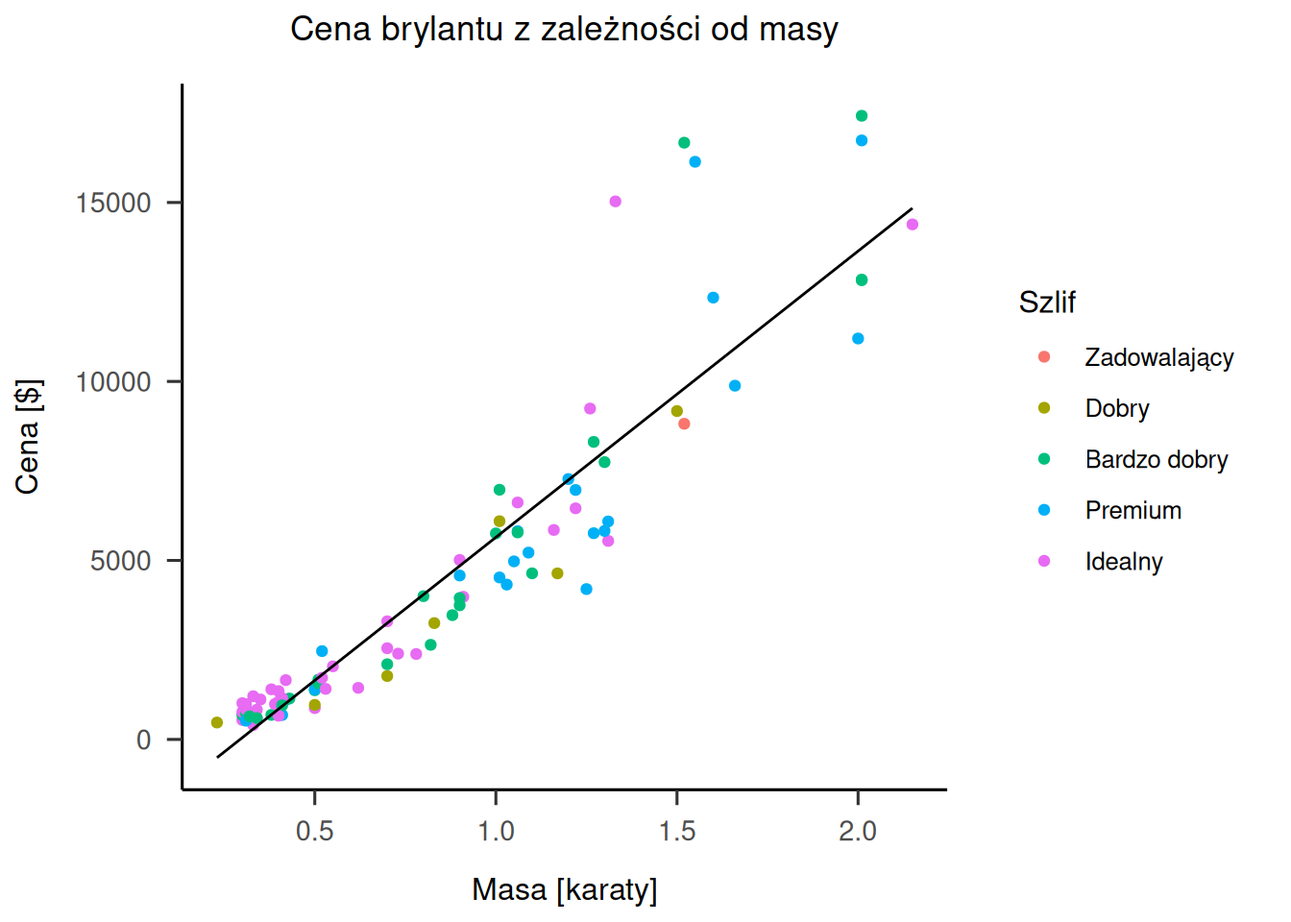
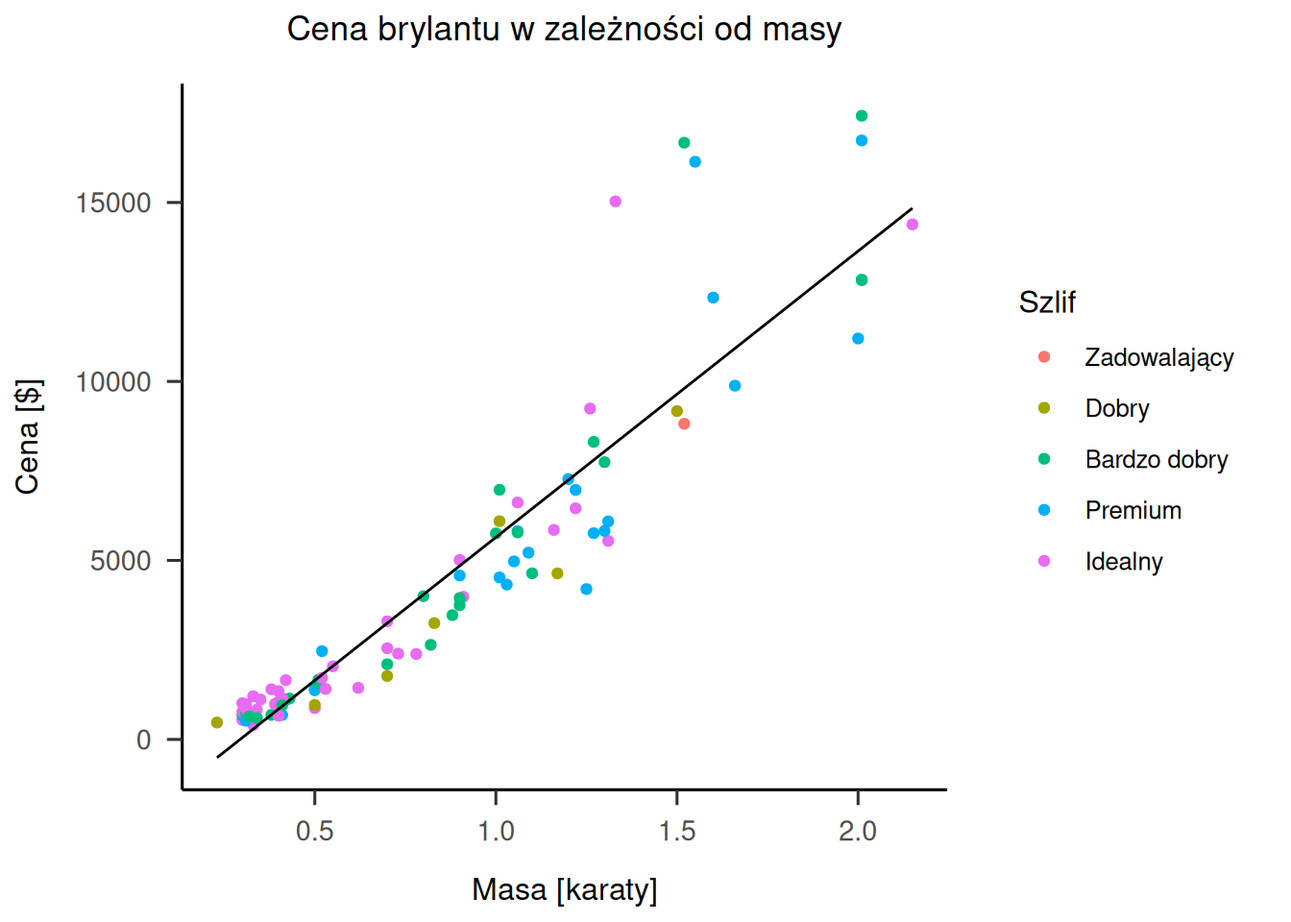
Built site for gh-pages

Changed region(s): [[0.2188, 0.0, 0.6562, 0.0625]]

diff --git a/statystyka/podstawy_R.html b/statystyka/podstawy_R.html
@@ -466,7 +466,7 @@ div.csl-indent {
 <section id="sec-projects" class="level2" data-number="3.6">
 <h2 data-number="3.6" class="anchored" data-anchor-id="sec-projects"><span class="header-section-number">3.6</span> Projekty</h2>
 <p>Zazwyczaj projekt badawczy składa się z wielu plików. Nie jest to tylko kod R, ale też chociażby pliki z danymi, instrukcje do metod badawczych itd. Zazwyczaj trzymamy to wszystko w jednym folderze. O ile utrzymujemy jakikolwiek porządek w plikach. Możemy też mieć całe studia luzem na pulpicie, nie oceniam. RStudio pomaga nam w zarządzaniu takimi grupami plików poprzez projekty. Projekty w RStudio robią kilka rzeczy, m.in. pozwalają ustawić niestandardowe opcje (np. zmienić język słownika na angielski tylko dla tego jednego projektu), zapamiętać otwarte okna i ich układ, ale przede wszystkim pomagają nam lokalizować pliki znajdujące się w tym samym folderze<a href="#fn9" class="footnote-ref" id="fnref9" role="doc-noteref"><sup>9</sup></a>. Zawsze, kiedy planujemy zachować jakiś zbiór powiązanych plików na dłużej, warto jest wytworzyć projekt.</p>
-<p>Projekty tworzymy i otwieramy przez guzik w prawym górnym rogu. Rozwijane menu pozwana nam stworzyć nowy projekt, a wyskakujące okienko pyta, czy wytworzyć go w już istniejącym folderze, stworzyć nowy folder, czy może pobrać repozytorium Git. Jeśli wybraliśmy nowy folder, mamy kilka typów projektów do wyboru, ale w większości przypadków wybieramy po prostu <code>New Project</code>. Okienko pozwala nam nadać projektowi nazwę, wybrać jego lokalizację, a także wytworzyć puste repozytorium Git<a href="#fn10" class="footnote-ref" id="fnref10" role="doc-noteref"><sup>10</sup></a>. RStudio wytworzy nam w ten sposób plik .Rproj organizujący nasz projekt.</p>
+<p>Projekty tworzymy i otwieramy przez guzik w prawym górnym rogu. Rozwijane menu pozwala nam stworzyć nowy projekt, a wyskakujące okienko pyta, czy wytworzyć go w już istniejącym folderze, stworzyć nowy folder, czy może pobrać repozytorium Git. Jeśli wybraliśmy nowy folder, mamy kilka typów projektów do wyboru, ale w większości przypadków wybieramy po prostu <code>New Project</code>. Okienko pozwala nam nadać projektowi nazwę, wybrać jego lokalizację, a także wytworzyć puste repozytorium Git<a href="#fn10" class="footnote-ref" id="fnref10" role="doc-noteref"><sup>10</sup></a>. RStudio wytworzy nam w ten sposób plik .Rproj organizujący nasz projekt.</p>
 </section>
 <section id="sec-libs" class="level2" data-number="3.7">
 <h2 data-number="3.7" class="anchored" data-anchor-id="sec-libs"><span class="header-section-number">3.7</span> Pakiety</h2>
@@ -501,7 +501,7 @@ div.csl-indent {
 <h1 data-number="4"><span class="header-section-number">4</span> Ładowanie danych z <code>readr</code></h1>
 <p>Jeśli chcemy cokolwiek liczyć, musimy mieć na czym liczyć. R ma wiele sposobów ładowania danych, które w każdym podręczniku zajmują cały rozdział. R poradzi sobie z prawie każdym formatem danych, a także potrafi ładować je bezpośrednio z serwerów (dla przykładu pakiet <code>googlesheets4</code> pozwala ładować pliki z Google Sheets bez pobierania ich na dysk albo <code>QualtRics</code> ułatwiający importowanie plików z danymi ankietowymi z Qualtrics).</p>
 <p>Wszystkie bazy, których używam w tym tekście, są dostępne w repozytorium na GitHubie. Można wejść w <a href="https://github.com/jakub-jedrusiak/jakub-jedrusiak.github.io/tree/main/statystyka/dane/podstawy-R">ten link</a>, wybrać pożądany plik i albo pobrać go na własny dysk, albo zamiast ścieżki do pliku użyć linku w cudzysłowie. By uzyskać właściwy link, należy kliknąć <code>raw</code> tuż nad treścią pliku. Takie linki można wklejać w komendy czytające dane zamiast ścieżek. Przykład linku, jak i tego, jak używać ich z funkcjami typu <code>read_csv</code> podaję w podrozdziale <a href="#sec-summarise">5.7</a> o grupowaniu.</p>
-<p>Podstawowe pakiety do ładowania danych do <code>readr</code> i <code>readxl</code> dla plików Excela. Na początek nie trzeba znać skłądni funkcji ładujących dane, bo RStudio dysponuje przyjemnym graficznym narzędziem do ładowania danych. Jeśli w prawym dolnym oknie, w zakładce Files, klikniemy na plik zawierający dane, dostaniemy do dyspozycji opcję Import Dataset… Po jej wybraniu otworzy nam się okno z podglądem danych i kilkoma opcjami do dostosowania, m.in. czy jakichś wierszy nie pominąć albo z którego arkusza pobrać dane. W plikach .csv czasem musimy też wybrać rodzaj separatora i znaku dziesiętnego (opcja Locale). W polskich plikach z danymi separatorem jest zazwyczaj średnik, a znakiem dziesiętnym przecinek (125 421,55), podczas gdy w angielskich danych będą to odpowiednio przecinek i kropka (125,421.55). Jeśli nie ustawimy znaku dziesiętnego, R może potraktować liczby z przecinkiem jako tekst. Poza tym możemy kliknąć w każdy nagłówek kolumny i wybrać typ danych, ale to niebezpieczna opcja, lepiej tego nie robić. Dane powinny być czyste, tj. kolumny liczbowe powinny zawierać same liczby. Jeśli dane nie są czyste (a zazwyczaj nie są), możemy je wyczyścić potem.</p>
+<p>Podstawowe pakiety do ładowania danych do <code>readr</code> i <code>readxl</code> dla plików Excela. Na początek nie trzeba znać składni funkcji ładujących dane, bo RStudio dysponuje przyjemnym graficznym narzędziem do ładowania danych. Jeśli w prawym dolnym oknie, w zakładce Files, klikniemy na plik zawierający dane, dostaniemy do dyspozycji opcję Import Dataset… Po jej wybraniu otworzy nam się okno z podglądem danych i kilkoma opcjami do dostosowania, m.in. czy jakichś wierszy nie pominąć albo z którego arkusza pobrać dane. W plikach .csv czasem musimy też wybrać rodzaj separatora i znaku dziesiętnego (opcja Locale). W polskich plikach z danymi separatorem jest zazwyczaj średnik, a znakiem dziesiętnym przecinek (125 421,55), podczas gdy w angielskich danych będą to odpowiednio przecinek i kropka (125,421.55). Jeśli nie ustawimy znaku dziesiętnego, R może potraktować liczby z przecinkiem jako tekst. Poza tym możemy kliknąć w każdy nagłówek kolumny i wybrać typ danych, ale to niebezpieczna opcja, lepiej tego nie robić. Dane powinny być czyste, tj. kolumny liczbowe powinny zawierać same liczby. Jeśli dane nie są czyste (a zazwyczaj nie są), możemy je wyczyścić potem.</p>
 <p>Możemy kliknąć Import, by dopełnić dzieła, ale jeśli tworzymy skrypt, będzie nas interesowała komenda, jaką RStudio dla nas przygotowało w czarnym okienku w prawym dolnym rogu. W pierwszej linijce RStudio proponuje załadowanie odpowiedniego pakietu. Warto to wpisać na początku skryptu, w miejscu, gdzie załadowaliśmy <code>tidyverse</code>. Jeśli proponowanym pakietem jest <code>readr</code>, nie musimy ładować go oddzielnie, bo ładując pakiet <code>tidyverse</code> załadowaliśmy od razu <code>readr</code>. Druga linijka do właściwe ładowanie danych. Widzimy znaną nam już składnię <code>nazwa &lt;-</code>. Nasze dane potrzebują jakiejś nazwy, za pomocą której będziemy się do niej odnosić. Może być to <code>df</code>, <code>dane</code>, <code>warunek_kontrolny</code> czy cokolwiek innego. Za strzałką mamy funkcję odczytującą dane. Najpewniej będzie to <code>read_csv()</code> albo <code>read_excel()</code>. Do tych funkcji wrzucamy jako pierwszy argument lokalizację naszego pliku z danymi w cudzysłowie (‘pojedynczym’ lub “podwójnym”). Ponieważ nam komendę przygotowało RStudio, możemy ją po prostu skopiować i wkleić do naszego skryptu, zmieniając tylko nazwę zmiennej. Co robią poszczególne argumenty, możemy sprawdzić w dokumentacji. Jeśli dane ładuje <code>readr</code>, wykonanie takiej komendy spowoduje ukazanie się informacji zwrotnej – jakie kolumny załadowano i jaki mają typ. Dla przykładu:</p>
 <div class="cell">
 <div class="sourceCode cell-code" id="cb12"><pre class="sourceCode r code-with-copy"><code class="sourceCode r"><span id="cb12-1"><a href="#cb12-1" aria-hidden="true" tabindex="-1"></a>df <span class="ot">&lt;-</span> <span class="fu">read_csv</span>(<span class="st">"dane/podstawy-R/complex_database.csv"</span>)</span></code><button title="Kopiuj do schowka" class="code-copy-button"><i class="bi"></i></button></pre></div>
@@ -557,7 +557,7 @@ div.csl-indent {
 <p>Zarówno tutaj, jak i później, nie będę wchodził w to, <em>dlaczego</em> coś działa jak działa. Większość poradników R opisuje, jak wykonać pewne operacje w podstawowym R, a następnie jak to robi się współcześnie, czyli wykorzystując pakiet <code>tidyverse</code>. O ile znajomość podstawowego R jest niezbędna do wykonywania bardziej skomplikowanych operacji i przydaje się, gdy coś nie działa i trzeba to jakoś naprawić, to tutaj jednak skupię się na tym, jak to się robi rzeczywiście, a współcześnie podstawy to <code>tidyverse</code>.</p>
 <section id="sec-choosing" class="level2" data-number="5.1">
 <h2 data-number="5.1" class="anchored" data-anchor-id="sec-choosing"><span class="header-section-number">5.1</span> Wybieranie kolumn i wierszy</h2>
-<p>Bardzo często będziemy potrzebowali tylko określonych kolumn albo tylko określonych wierszy. Przeglądając nasze dane zauważamy, że składają się w dużej części z niepotrzebnych kolumn, jakie wygenerował dla nas program do ankiet. Kolumny takie jak godziny wypełniania są nam niepotrzebne do analizy. Co więcej nasze dane to fragment bazy danych z badania, w którym mówiliśmy mężczyznom, że są mało męscy i patrzyliśmy, jak to wpłynie na nich homofobię. Badaliśmy więc wyłącznie mężczyzn, a mimo to ankietę próbowało też wypełnić kilka kobiet i osób o innej płci. Ponieważ ankieta nie dopuściła ich nawet do metryczki, widzimy w ich przypadkach wartości <code>NA</code>, co w R oznacza „brak danych”.</p>
+<p>Bardzo często będziemy potrzebowali tylko określonych kolumn albo tylko określonych wierszy. Przeglądając nasze dane zauważamy, że składają się w dużej części z niepotrzebnych kolumn, jakie wygenerował dla nas program do ankiet. Kolumny takie jak godziny wypełniania są nam niepotrzebne do analizy. Co więcej nasze dane to fragment bazy danych z badania, w którym mówiliśmy mężczyznom, że są mało męscy. Potem patrzyliśmy, jak to wpłynie na nich homofobię. Badaliśmy więc wyłącznie mężczyzn, a mimo to ankietę próbowało też wypełnić kilka kobiet i osób o innej płci. Ponieważ ankieta nie dopuściła ich nawet do metryczki, widzimy w ich przypadkach wartości <code>NA</code>, co w R oznacza „brak danych”.</p>
 <section id="sec-filter" class="level3" data-number="5.1.1">
 <h3 data-number="5.1.1" class="anchored" data-anchor-id="sec-filter"><span class="header-section-number">5.1.1</span> Filtrowanie wierszy z <code>dplyr::filter</code></h3>
 <p>Zacznijmy od tego, że w naszej bazie zostawimy tylko mężczyzn. Wszystkie komendy poniżej wpisuję w konsoli, dla testów. Jeśli wpisujemy komendy modyfikujące dane i nie dodamy specjalnej instrukcji zapisującej, to nie zapisujemy zmian, więc możemy bezpiecznie sprawdzić, co się stanie, jak rzeczywiście to zrobimy. Dopiero na koniec podam, jak nasze zmiany rzeczywiście zapisać. Zachęcam do tego, żeby kolejne kroki pisać samodzielnie (może być w skrypcie) i potem wykonywać, żeby widzieć wszystkie pośrednie kroki. Jak więc odfiltrować nie-mężczyzn? Robimy to za pomocą komendy <code>filter()</code><a href="#fn12" class="footnote-ref" id="fnref12" role="doc-noteref"><sup>12</sup></a>. <code>tidyverse</code> opiera się o intuicyjnie brzmiące czasowniki takie jak <code>filter</code>, <code>select</code>, <code>group_by</code>, <code>summarise</code> itd. Komenda <code>filter</code> przyjmuje naszą bazę i jakieś warunki, np. płeć męska. W naszym wypadku będzie to wyglądać tak:</p>
@@ -662,8 +662,8 @@ div.csl-indent {
 </code><button title="Kopiuj do schowka" class="code-copy-button"><i class="bi"></i></button></pre>
 </div>
 </div>
-<p>Jak widzimy, <code>paste</code> wygenerowało nam 10 kolejnych etykiet łącząc <code>"H"</code> i liczby od 1 do 10. Argument <code>sep = "_"</code> mówi, żeby między kolejnymi kawałkami wstawiać podkreślnik. Do <code>paste</code> możemy wrzucić dowolną liczbę znaków do połączenia. Jeśli nie chcemy żadnego separatora, możemy ustawić <code>sep = ""</code>, czyli pusty ciąg znaków w separatorze albo możemy użyć bliźniaczej funkcji <code>paste0</code>, która nie ma separatora. Użycie tej funkcji wewnątrz <code>set_names</code> jest równoważne temu, jakbym napisał te etykietki ręcznie. To jest siła programowania, że dosłowne dane możemy zastępować zmiennymi albo funkcjami, które nam te dane wygenerują. To pozwana nam na przykład zastosować to samo czyszczenie do 100 różnych plików. Wystarczy, że zamiast nazwy danego pliku wszędzie wrzucimy zmienną, a potem będziemy tylko wrzucać do tej zmiennej nazwy kolejnych plików.</p>
-<p>Co ciekawe, zmieniać nazwy możemy też za pomocą funkcji <code>select</code>, ale wyłącznie pojedynczo, nie można wtedy użyć czegoś w stylu <code>9:18</code>. Składnia jest taka sama, jak <code>rename</code>, ale <code>select</code> zmienia też kolejność kolumn i skład wynikowej tabelu, więc trzeba uważać. Jednak do małych tabel, gdzie nie jest problemem wypisać wszystkie kolumny, można spokojnie za jednym zamachem kolumny wybrać i nazwać.</p>
+<p>Jak widzimy, <code>paste</code> wygenerowało nam 10 kolejnych etykiet łącząc <code>"H"</code> i liczby od 1 do 10. Argument <code>sep = "_"</code> mówi, żeby między kolejnymi kawałkami wstawiać podkreślnik. Do <code>paste</code> możemy wrzucić dowolną liczbę znaków do połączenia. Jeśli nie chcemy żadnego separatora, możemy ustawić <code>sep = ""</code>, czyli pusty ciąg znaków w separatorze albo możemy użyć bliźniaczej funkcji <code>paste0</code>, która nie ma separatora. Użycie tej funkcji wewnątrz <code>set_names</code> jest równoważne temu, jakbym napisał te etykietki ręcznie. To jest siła programowania, że dosłowne dane możemy zastępować zmiennymi albo funkcjami, które nam te dane wygenerują. To pozwala nam na przykład zastosować to samo czyszczenie do 100 różnych plików. Wystarczy, że zamiast nazwy danego pliku wszędzie wrzucimy zmienną, a potem będziemy tylko wrzucać do tej zmiennej nazwy kolejnych plików.</p>
+<p>Co ciekawe, zmieniać nazwy możemy też za pomocą funkcji <code>select</code>, ale wyłącznie pojedynczo, nie można wtedy użyć czegoś w stylu <code>9:18</code>. Składnia jest taka sama, jak <code>rename</code>, ale <code>select</code> zmienia też kolejność kolumn i skład wynikowej tabeli, więc trzeba uważać. Jednak do małych tabel, gdzie nie jest problemem wypisać wszystkie kolumny, można spokojnie za jednym zamachem kolumny wybrać i nazwać.</p>
 </section>
 <section id="sec-values" class="level2" data-number="5.3">
 <h2 data-number="5.3" class="anchored" data-anchor-id="sec-values"><span class="header-section-number">5.3</span> Zmiana wartości komórek z <code>dplyr::mutate</code> i <code>readr::parse_number</code></h2>
@@ -1058,11 +1058,12 @@ div.csl-indent {
 </code><button title="Kopiuj do schowka" class="code-copy-button"><i class="bi"></i></button></pre>
 </div>
 </div>
-<p>Po zapisaniu zmiennej <code>df</code>, tracimy naszą starą zmienną. Tym samym, jeśli uruchomilibyśmy nasz kod jeszcze raz, ale już na nowej zmiennej <code>df</code>, wyskoczy nam błąd. W końcu nowa zmienna nie ma tych samych kolumn, co stara zmienna. Co więcej, takiej operacji przypisania nie da się w prosty sposób cofnąć. Jeśli chcemy dostać swoją starą, brudną bazę, musimy ponownie załadować ją z pliku. To prowadzi nas do ważnego wniosku co do pisania skryptów – powinniśmy pisać je tak, żeby dało się z nich odtworzyć wszystko, co robiliśmy od samego początku<a href="#fn24" class="footnote-ref" id="fnref24" role="doc-noteref"><sup>24</sup></a>. Dzięki temu, jeśli chcemy się z czegoś wycofać, zaznaczamy i wykonujemy cały kod przed interesującym nas momentem. Brak skrótu Ctrl+Z jest jedną z ważniejszych różnic między analizą w programach typu SPSS czy Statistica a analizą w językach programowania typu R czy Python. Wbrew pozorom idzie się przyzwyczaić. Ta sama właściwość pozwala na zachowanie przejrzystości w nauce – pokaż mi swój kod, a będę wiedział bardzo dokładnie, jak prowadziłeś(-aś) swoją analizę.</p>
+<p>Po zapisaniu zmiennej <code>df</code>, tracimy naszą starą bazę danych, która była w niej zapisana. To jest tak, jakbyśmy kopiowali plik do folderu, w którym znajduje się już plik o takiej samej nazwie. Operator <code>&lt;-</code> <em>nadpisuje</em> starą zmienną.</p>
+<p>Tym samym, jeśli uruchomilibyśmy nasz kod jeszcze raz, ale już na nowej zmiennej <code>df</code>, wyskoczy nam błąd. W końcu nowa zmienna nie ma tych samych kolumn, co stara zmienna. Co więcej, takiej operacji przypisania nie da się w prosty sposób cofnąć. Jeśli chcemy dostać swoją starą, brudną bazę, musimy ponownie załadować ją z pliku. To prowadzi nas do ważnego wniosku co do pisania skryptów – powinniśmy pisać je tak, żeby dało się z nich odtworzyć wszystko, co robiliśmy od samego początku<a href="#fn24" class="footnote-ref" id="fnref24" role="doc-noteref"><sup>24</sup></a>. Dzięki temu, jeśli chcemy się z czegoś wycofać, zaznaczamy i wykonujemy cały kod przed interesującym nas momentem. Brak skrótu Ctrl+Z jest jedną z ważniejszych różnic między analizą w programach typu SPSS czy Statistica a analizą w językach programowania typu R czy Python. Wbrew pozorom idzie się przyzwyczaić. Ta sama właściwość pozwala na zachowanie przejrzystości w nauce – pokaż mi swój kod, a będę wiedział bardzo dokładnie, jak prowadziłeś(-aś) swoją analizę.</p>
 </section>
 <section id="sec-summarise" class="level2" data-number="5.7">
 <h2 data-number="5.7" class="anchored" data-anchor-id="sec-summarise"><span class="header-section-number">5.7</span> Grupowanie (<code>dplyr::group_by</code>) i agregowanie (<code>dplyr::summarise</code>)</h2>
-<p>Gdy mamy już bazę, zazwyczaj chcemy policzyć pewne statystyki dla podgrup osób badanych, np. dla osób różniących się wykształceniem, płcią czy jakąś manipulacją. Chcemy na przykład poznać średnią homofobię osób o różnym wykształceniu, sprawdzić liczność naszych podgrup czy policzyć inne zbiorcze statystyki. Możemy, oczywiście, odfiltrować najpierw osoby o wykształceniu podstawowym, policzyć dla nich, potem osoby o wykształceniu średnim itd. Są jednak prostsze sposoby, a obejmują one użycie <code>group_by</code> i <code>summarise</code><a href="#fn25" class="footnote-ref" id="fnref25" role="doc-noteref"><sup>25</sup></a>. Te dwie funkcje zazwyczaj idą ze sobą w parze i zgrupowane dane od razu trafiają do <code>summarise</code>. Poniżej przykład.</p>
+<p>Gdy mamy już bazę, zazwyczaj chcemy policzyć pewne statystyki dla podgrup osób badanych, np. dla osób różniących się wykształceniem, płcią czy jakąś manipulacją. Chcemy na przykład poznać średnią homofobię osób o różnym wykształceniu, sprawdzić liczebność naszych podgrup czy policzyć inne zbiorcze statystyki. Możemy, oczywiście, odfiltrować najpierw osoby o wykształceniu podstawowym, policzyć dla nich, potem osoby o wykształceniu średnim itd. Są jednak prostsze sposoby, a obejmują one użycie <code>group_by</code> i <code>summarise</code><a href="#fn25" class="footnote-ref" id="fnref25" role="doc-noteref"><sup>25</sup></a>. Te dwie funkcje zazwyczaj idą ze sobą w parze i zgrupowane dane od razu trafiają do <code>summarise</code>. Poniżej przykład.</p>
 <div class="cell">
 <div class="sourceCode cell-code" id="cb42"><pre class="sourceCode r code-with-copy"><code class="sourceCode r"><span id="cb42-1"><a href="#cb42-1" aria-hidden="true" tabindex="-1"></a>df <span class="sc">%&gt;%</span></span>
 <span id="cb42-2"><a href="#cb42-2" aria-hidden="true" tabindex="-1"></a>    <span class="fu">group_by</span>(wyksztalcenie) <span class="sc">%&gt;%</span></span>
@@ -1211,8 +1212,8 @@ div.csl-indent {
 </section>
 <section id="sec-join" class="level2" data-number="5.9">
 <h2 data-number="5.9" class="anchored" data-anchor-id="sec-join"><span class="header-section-number">5.9</span> Retesty czyli złączenia (<em>joins</em>)</h2>
-<p>Złączenia (<em>joins</em>) to, jak nazwa wskazuje, metoda łączenia dwóch baz danych. Jest to jedna z podstawowych operacji na bazach danych, znana co najmniej od lat 70. i instrukcji <code>JOIN</code> w SQL. Jest to także jedna z operacji niedostępnych w Excelu bez Power Query. W praktyce badawczej może być ona konieczna, gdy mamy badanie wieloczęściowe, w którym musimy stosować wiele baz danych (np. jedną tworzą pomiary z eyetrackera, drugą wyniki w ankiecie, a trzecią test szybkości reakcji). Często zarza się to też w prostych badaniach ankietowych, w których po jakimś czasie musimy wykonać retest. W obu tych przypadkach lądujemy z dwiema (lub więcej) bazami, które – miejmy nadzieję – mają jaką wspólną kolumnę, identyfikator osoby badanej, taki sam w każdej z trzech baz<a href="#fn28" class="footnote-ref" id="fnref28" role="doc-noteref"><sup>28</sup></a>.</p>
-<p>Jak więc takie bazy połączyć? Wykorzystajmy tutaj dwie bazy zawierające test i retest, zrobione podczas walidacji kwestionariusza o nazwie KTR. Składał się on z dwóch skal oznaczonych tutaj literkami O i W. Standardową procedurą przy projektowaniu kwestionariusza jest powtórzenie pomiaru po jakimś czasie, żeby sprawdzić, na ile wyniki są stabilne. My taką procedurę wykonaliśmy, przez co dysponujemy dwoma oddzielnymi bazami. Zerknijmy na nie.</p>
+<p>Złączenia (<em>joins</em>) to, jak nazwa wskazuje, metoda łączenia dwóch baz danych. Jest to jedna z podstawowych operacji na bazach danych, znana co najmniej od lat 70. i instrukcji <code>JOIN</code> w SQL. Jest to także jedna z operacji niedostępnych w Excelu bez Power Query. W praktyce badawczej może być ona konieczna, gdy mamy badanie wieloczęściowe, w którym musimy stosować wiele baz danych (np. jedną tworzą pomiary z eyetrackera, drugą wyniki w ankiecie, a trzecią test szybkości reakcji). Często zdarza się to też w prostych badaniach ankietowych, w których po jakimś czasie musimy wykonać retest. W obu tych przypadkach lądujemy z dwiema (lub więcej) bazami, które – miejmy nadzieję – mają jakąś wspólną kolumnę, identyfikator osoby badanej, taki sam w każdej z trzech baz<a href="#fn28" class="footnote-ref" id="fnref28" role="doc-noteref"><sup>28</sup></a>.</p>
+<p>Jak więc takie bazy połączyć? Wykorzystajmy tutaj dwie bazy zawierające test i retest, zrobione podczas walidacji kwestionariusza o nazwie KTR. Składał się on z dwóch skal oznaczonych tutaj literkami O i W. Standardową procedurą przy projektowaniu kwestionariusza jest powtórzenie pomiaru po jakimś czasie, żeby sprawdzić, na ile wyniki są stabilne. My taką procedurę wykonaliśmy, przez co dysponujemy dwiema oddzielnymi bazami. Zerknijmy na nie.</p>
 <div class="cell">
 <div class="sourceCode cell-code" id="cb50"><pre class="sourceCode r code-with-copy"><code class="sourceCode r"><span id="cb50-1"><a href="#cb50-1" aria-hidden="true" tabindex="-1"></a>db_test <span class="ot">&lt;-</span> <span class="fu">read_csv</span>(<span class="st">"./dane/podstawy-R/join-test.csv"</span>, <span class="at">show_col_types =</span> <span class="cn">FALSE</span>)</span>
 <span id="cb50-2"><a href="#cb50-2" aria-hidden="true" tabindex="-1"></a>db_retest <span class="ot">&lt;-</span> <span class="fu">read_csv</span>(<span class="st">"./dane/podstawy-R/join-retest.csv"</span>, <span class="at">show_col_types =</span> <span class="cn">FALSE</span>)</span>
@@ -1527,7 +1528,7 @@ div.csl-indent {
 <span id="cb65-5"><a href="#cb65-5" aria-hidden="true" tabindex="-1"></a>        <span class="at">x =</span> <span class="st">"Masa [karaty]"</span>,</span>
 <span id="cb65-6"><a href="#cb65-6" aria-hidden="true" tabindex="-1"></a>        <span class="at">y =</span> <span class="st">"Cena [$]"</span>,</span>
 <span id="cb65-7"><a href="#cb65-7" aria-hidden="true" tabindex="-1"></a>        <span class="at">colour =</span> <span class="st">"Szlif"</span>,</span>
-<span id="cb65-8"><a href="#cb65-8" aria-hidden="true" tabindex="-1"></a>        <span class="at">title =</span> <span class="st">"Cena brylantu z zależności od masy"</span></span>
+<span id="cb65-8"><a href="#cb65-8" aria-hidden="true" tabindex="-1"></a>        <span class="at">title =</span> <span class="st">"Cena brylantu w zależności od masy"</span></span>
 <span id="cb65-9"><a href="#cb65-9" aria-hidden="true" tabindex="-1"></a>    )</span></code><button title="Kopiuj do schowka" class="code-copy-button"><i class="bi"></i></button></pre></div>
 <div class="sourceCode">
 <pre class="sourceCode code-with-copy"><code class="sourceCode"><span style="color: #555555;">#&gt;</span><span style="color: #BB0000;"> `geom_smooth()` using formula = 'y ~ x'
@@ -1546,7 +1547,7 @@ div.csl-indent {
 <span id="cb66-5"><a href="#cb66-5" aria-hidden="true" tabindex="-1"></a>        <span class="at">x =</span> <span class="st">"Masa [karaty]"</span>,</span>
 <span id="cb66-6"><a href="#cb66-6" aria-hidden="true" tabindex="-1"></a>        <span class="at">y =</span> <span class="st">"Cena [$]"</span>,</span>
 <span id="cb66-7"><a href="#cb66-7" aria-hidden="true" tabindex="-1"></a>        <span class="at">colour =</span> <span class="st">"Szlif"</span>,</span>
-<span id="cb66-8"><a href="#cb66-8" aria-hidden="true" tabindex="-1"></a>        <span class="at">title =</span> <span class="st">"Cena brylantu z zależności od masy"</span></span>
+<span id="cb66-8"><a href="#cb66-8" aria-hidden="true" tabindex="-1"></a>        <span class="at">title =</span> <span class="st">"Cena brylantu w zależności od masy"</span></span>
 <span id="cb66-9"><a href="#cb66-9" aria-hidden="true" tabindex="-1"></a>    ) <span class="sc">+</span></span>
 <span id="cb66-10"><a href="#cb66-10" aria-hidden="true" tabindex="-1"></a>    <span class="fu">scale_colour_discrete</span>(<span class="at">labels =</span> <span class="fu">c</span>(<span class="st">"Zadowalający"</span>, <span class="st">"Dobry"</span>, <span class="st">"Bardzo dobry"</span>, <span class="st">"Premium"</span>, <span class="st">"Idealny"</span>))</span></code><button title="Kopiuj do schowka" class="code-copy-button"><i class="bi"></i></button></pre></div>
 <div class="sourceCode">
@@ -1573,7 +1574,7 @@ div.csl-indent {
 <span id="cb67-7"><a href="#cb67-7" aria-hidden="true" tabindex="-1"></a>        <span class="at">x =</span> <span class="st">"Masa [karaty]"</span>,</span>
 <span id="cb67-8"><a href="#cb67-8" aria-hidden="true" tabindex="-1"></a>        <span class="at">y =</span> <span class="st">"Cena [$]"</span>,</span>
 <span id="cb67-9"><a href="#cb67-9" aria-hidden="true" tabindex="-1"></a>        <span class="at">colour =</span> <span class="st">"Szlif"</span>,</span>
-<span id="cb67-10"><a href="#cb67-10" aria-hidden="true" tabindex="-1"></a>        <span class="at">title =</span> <span class="st">"Cena brylantu z zależności od masy"</span></span>
+<span id="cb67-10"><a href="#cb67-10" aria-hidden="true" tabindex="-1"></a>        <span class="at">title =</span> <span class="st">"Cena brylantu w zależności od masy"</span></span>
 <span id="cb67-11"><a href="#cb67-11" aria-hidden="true" tabindex="-1"></a>    ) <span class="sc">+</span></span>
 <span id="cb67-12"><a href="#cb67-12" aria-hidden="true" tabindex="-1"></a>    <span class="fu">scale_colour_discrete</span>(</span>
 <span id="cb67-13"><a href="#cb67-13" aria-hidden="true" tabindex="-1"></a>        <span class="at">labels =</span> <span class="fu">c</span>(<span class="st">"Zadowalający"</span>, <span class="st">"Dobry"</span>, <span class="st">"Bardzo dobry"</span>, <span class="st">"Premium"</span>, <span class="st">"Idealny"</span>)</span>
@@ -1594,7 +1595,7 @@ div.csl-indent {
 <span id="cb68-7"><a href="#cb68-7" aria-hidden="true" tabindex="-1"></a>        <span class="at">x =</span> <span class="st">"Masa [karaty]"</span>,</span>
 <span id="cb68-8"><a href="#cb68-8" aria-hidden="true" tabindex="-1"></a>        <span class="at">y =</span> <span class="st">"Cena [$]"</span>,</span>
 <span id="cb68-9"><a href="#cb68-9" aria-hidden="true" tabindex="-1"></a>        <span class="at">colour =</span> <span class="st">"Szlif"</span>,</span>
-<span id="cb68-10"><a href="#cb68-10" aria-hidden="true" tabindex="-1"></a>        <span class="at">title =</span> <span class="st">"Cena brylantu z zależności od masy"</span></span>
+<span id="cb68-10"><a href="#cb68-10" aria-hidden="true" tabindex="-1"></a>        <span class="at">title =</span> <span class="st">"Cena brylantu w zależności od masy"</span></span>
 <span id="cb68-11"><a href="#cb68-11" aria-hidden="true" tabindex="-1"></a>    ) <span class="sc">+</span></span>
 <span id="cb68-12"><a href="#cb68-12" aria-hidden="true" tabindex="-1"></a>    <span class="fu">scale_colour_discrete</span>(</span>
 <span id="cb68-13"><a href="#cb68-13" aria-hidden="true" tabindex="-1"></a>        <span class="at">labels =</span> <span class="fu">c</span>(<span class="st">"Zadowalający"</span>, <span class="st">"Dobry"</span>, <span class="st">"Bardzo dobry"</span>, <span class="st">"Premium"</span>, <span class="st">"Idealny"</span>),</span>
@@ -1707,7 +1708,7 @@ div.csl-indent {
 </code><button title="Kopiuj do schowka" class="code-copy-button"><i class="bi"></i></button></pre>
 </div>
 </div>
-<p>Obiekty tego typu zawsze wymagają argumentu <code>data</code>. Dlaczego jednak zapisałem <code>data = .</code>? Problem polega tutaj na użyciu potoków. Standardowo potok <code>%&gt;%</code> wrzuca rzeczy do pierwszego argumentu. Wiele funkcji, tak jak <code>lm</code>, nie przyjmuje bazy danych w pierwszym argumencie. Często nawet nie w drugim, więc najlepiej wprost go nazwać. Omawiany w podrozdziale <a href="#sec-rstatix">8.2</a> pakiet <code>rstatix</code> za pierwszy cel postawił sobie nawet przerobienie testów statystycznych tak, żeby lepiej współpracowały z potokami. Jak więc poradzić sobie w takiej sytuacji? Jedna opcja, to całkiem zrezygnować z potoków i zapisać <code>data = iris</code>. Tak też jest dobrze, ale co jeśli potrzebujemy użyć potoku? Na przykład przed stworzeniem modelu wykonujemy serię przekształceń danych? Warto pamiętać, że potoki nie są obowiązkowe, można równie dobrze zagnieżdżać funkcje, Cierpi na tym tylko czytelność kodu. Druga opcja, to wprost powiedzenie potokowi, gdzie ma wrzucić naszą bazę danych. Do tego właśnie służy <code>.</code>. Zapis <code>data = .</code> mówi potokowi „halo halo, proszę nie wrzucać bazy do pierwszego argumentu, tylko o tu, gdzie pokazałem(-am) kropką”.</p>
+<p>Obiekty tego typu zawsze wymagają argumentu <code>data</code>. Dlaczego jednak zapisałem <code>data = .</code>? Problem polega tutaj na użyciu potoków. Standardowo potok <code>%&gt;%</code> wrzuca rzeczy do pierwszego argumentu. Wiele funkcji, tak jak <code>lm</code>, nie przyjmuje bazy danych w pierwszym argumencie. Często nawet nie w drugim, więc najlepiej wprost go nazwać. Omawiany w podrozdziale <a href="#sec-rstatix">8.2</a> pakiet <code>rstatix</code> za pierwszy cel postawił sobie nawet przerobienie testów statystycznych tak, żeby lepiej współpracowały z potokami. Jak więc poradzić sobie w takiej sytuacji? Jedna opcja, to całkiem zrezygnować z potoków i zapisać <code>data = iris</code>. Tak też jest dobrze, ale co jeśli potrzebujemy użyć potoku? Na przykład przed stworzeniem modelu wykonujemy serię przekształceń danych? Warto pamiętać, że potoki nie są obowiązkowe, można równie dobrze zagnieżdżać funkcje. Cierpi na tym tylko czytelność kodu. Druga opcja, to wprost powiedzenie potokowi, gdzie ma wrzucić naszą bazę danych. Do tego właśnie służy <code>.</code>. Zapis <code>data = .</code> mówi potokowi „halo halo, proszę nie wrzucać bazy do pierwszego argumentu, tylko o tu, gdzie pokazałem(-am) kropką”.</p>
 <p>W powyższym przykładzie widać też, że <code>lm</code>, podobnie jak wiele innych obiektów modeli, nie daje nam domyślnie sensownego podsumowania. Wiele modeli wymaga od nas, byśmy wrzucili je do funkcji <code>summary</code> (nie mylić z <code>summarise</code>) żeby powiedziały nam coś, co da się zrozumieć.</p>
 <div class="cell">
 <div class="sourceCode cell-code" id="cb73"><pre class="sourceCode r code-with-copy"><code class="sourceCode r"><span id="cb73-1"><a href="#cb73-1" aria-hidden="true" tabindex="-1"></a><span class="fu">summary</span>(lm_price)</span></code><button title="Kopiuj do schowka" class="code-copy-button"><i class="bi"></i></button></pre></div>
@@ -1977,8 +1978,8 @@ div.csl-indent {
 <section id="sec-ending" class="level1" data-number="10">
 <h1 data-number="10"><span class="header-section-number">10</span> Posłowie</h1>
 <p>W ten sposób kończymy to przydługie wprowadzenie do R. Wielu rzeczy tutaj nie omówiłem, np. elementów klasycznego R, takich jak wybór pojedynczej kolumny jako wektora (np. <code>df$wyksztalcenie</code>), czy w ogóle wektorów. Nie poznaliśmy klasycznych sposobów selekcji danych, jak np. <code>df[df$wyksztalcenie == "Wyższe", 1:10]</code>. Nie powiedzieliśmy nic o listach ani pętlach, czyli tym kawałku R, który umożliwia automatyzację. Nie liznęliśmy nawet Quarto, czyli standardu do łączenia R z pisaniem raportów, w którym zresztą piszę ten tekst. Części rzeczy nie omówiłem, bo na początek da się je skutecznie zastąpić nowszymi i bardziej czytelnymi funkcjami <code>tidyverse</code>. Część natomiast bywa bardzo przydatna, ale jest po prostu, według mnie, zbyt zaawansowana jak na pierwszy kontakt z językiem.</p>
-<p>Tym samym zachęcam do dalszej nauki! Jeśli opanowaliście elementy zawarte w tym tekście, macie solidny fundament, by zrozumieć takie książki jak polecana przeze mnie na wstępie publikacja „Język R. Kompletny zestaw narzędzi dla analityków danych” <span class="citation" data-cites="wickham2020">(<a href="#ref-wickham2020" role="doc-biblioref">Wickham &amp; Grolemund, 2020</a>)</span>. Zaznaczam tylko, że ten tekst jest od tej książki nowszy, więc czasem pojawią się rozbieżności. W kilku miejscach wspominałem, że to, co opisuję, to nowinka, ale co do wielu rzeczy już nawet nie pamiętam, że były kiedyś nowe. Zawsze jednak pierwszym, podstawowym źródłem powinna być zawsze aktualna dokumentacja, a dopiero potem StackOverflow.</p>
-<p>Jeśli czytasz to teraz, oznacza to, że ten tekst to praca w toku. Za każdą informację zwrotną będę wdzięczny. Jeśli coś było niejasne, jeśli coś powinienem wyjaśnić szerzej albo prościej, jeśli czegoś mocno zabrakło, to można (trzeba!) do mnie pisać na <a href="mailto:315695@uwr.edu.pl">315695@uwr.edu.pl</a>.</p>
+<p>Tym samym zachęcam do dalszej nauki! Jeśli opanowaliście elementy zawarte w tym tekście, macie solidny fundament, by zrozumieć takie książki jak polecana przeze mnie na wstępie publikacja „Język R. Kompletny zestaw narzędzi dla analityków danych” <span class="citation" data-cites="wickham2020">(<a href="#ref-wickham2020" role="doc-biblioref">Wickham &amp; Grolemund, 2020</a>)</span>. Zaznaczam tylko, że ten tekst jest od tej książki nowszy, więc czasem pojawią się rozbieżności. W kilku miejscach wspominałem, że to, co opisuję, to nowinka, ale co do wielu rzeczy już nawet nie pamiętam, że były kiedyś nowe. Zawsze jednak pierwszym, podstawowym źródłem powinna być dokumentacja (zawsze aktualna), a dopiero potem StackOverflow.</p>
+<p>Jeśli czytasz to teraz, oznacza to, że ten tekst to praca w toku. Za każdą informację zwrotną będę wdzięczny. Jeśli coś było niejasne, jeśli coś powinienem wyjaśnić szerzej albo prościej, jeśli czegoś mocno zabrakło, to można (trzeba!) do mnie pisać na <a href="mailto:kuba23031999@gmail.com">kuba23031999@gmail.com</a>.</p>
 <p>Z tego miejsca pozostaje mi życzyć jak najmniej błędów. Ostatnie przesłanie jest jednak takie, że błędy będą się pojawiać. W dużych ilościach. Debugowanie potrafi zajmować mnóstwo czasu, zwłaszcza na początku drogi. Nie trzeba się jednak bać ani frustrować, trzeba czytać komunikaty o błędach i w razie czego wyszukiwać je w Google, a w ostateczności pytać na StackOverflow. Po pewnym czasie tych błędów będzie coraz mniej, podobnie jak zawahań i potrzeby sięgania po pomoc poza dokumentację. Choć pewnie nigdy nie znikną one całkiem.</p>
 <div class="cell">
 <details>
